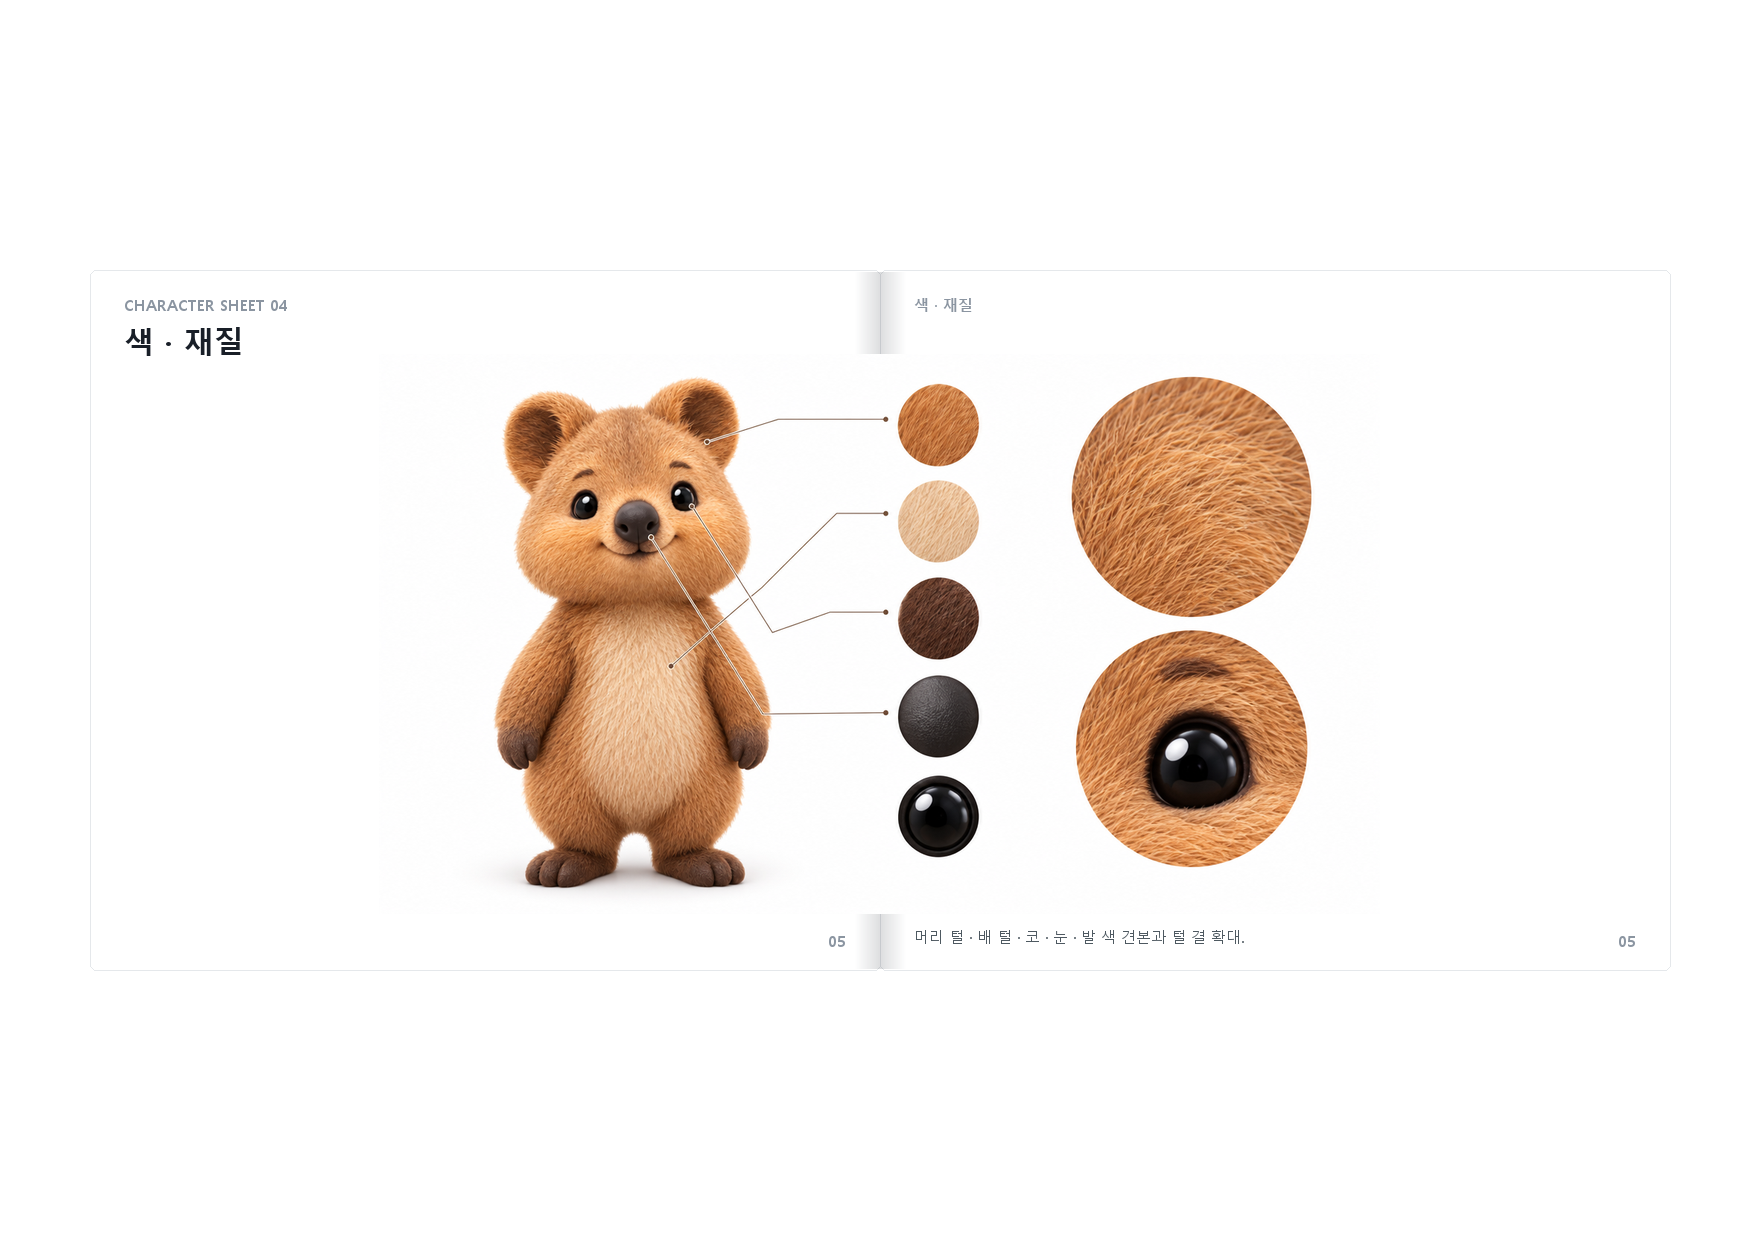
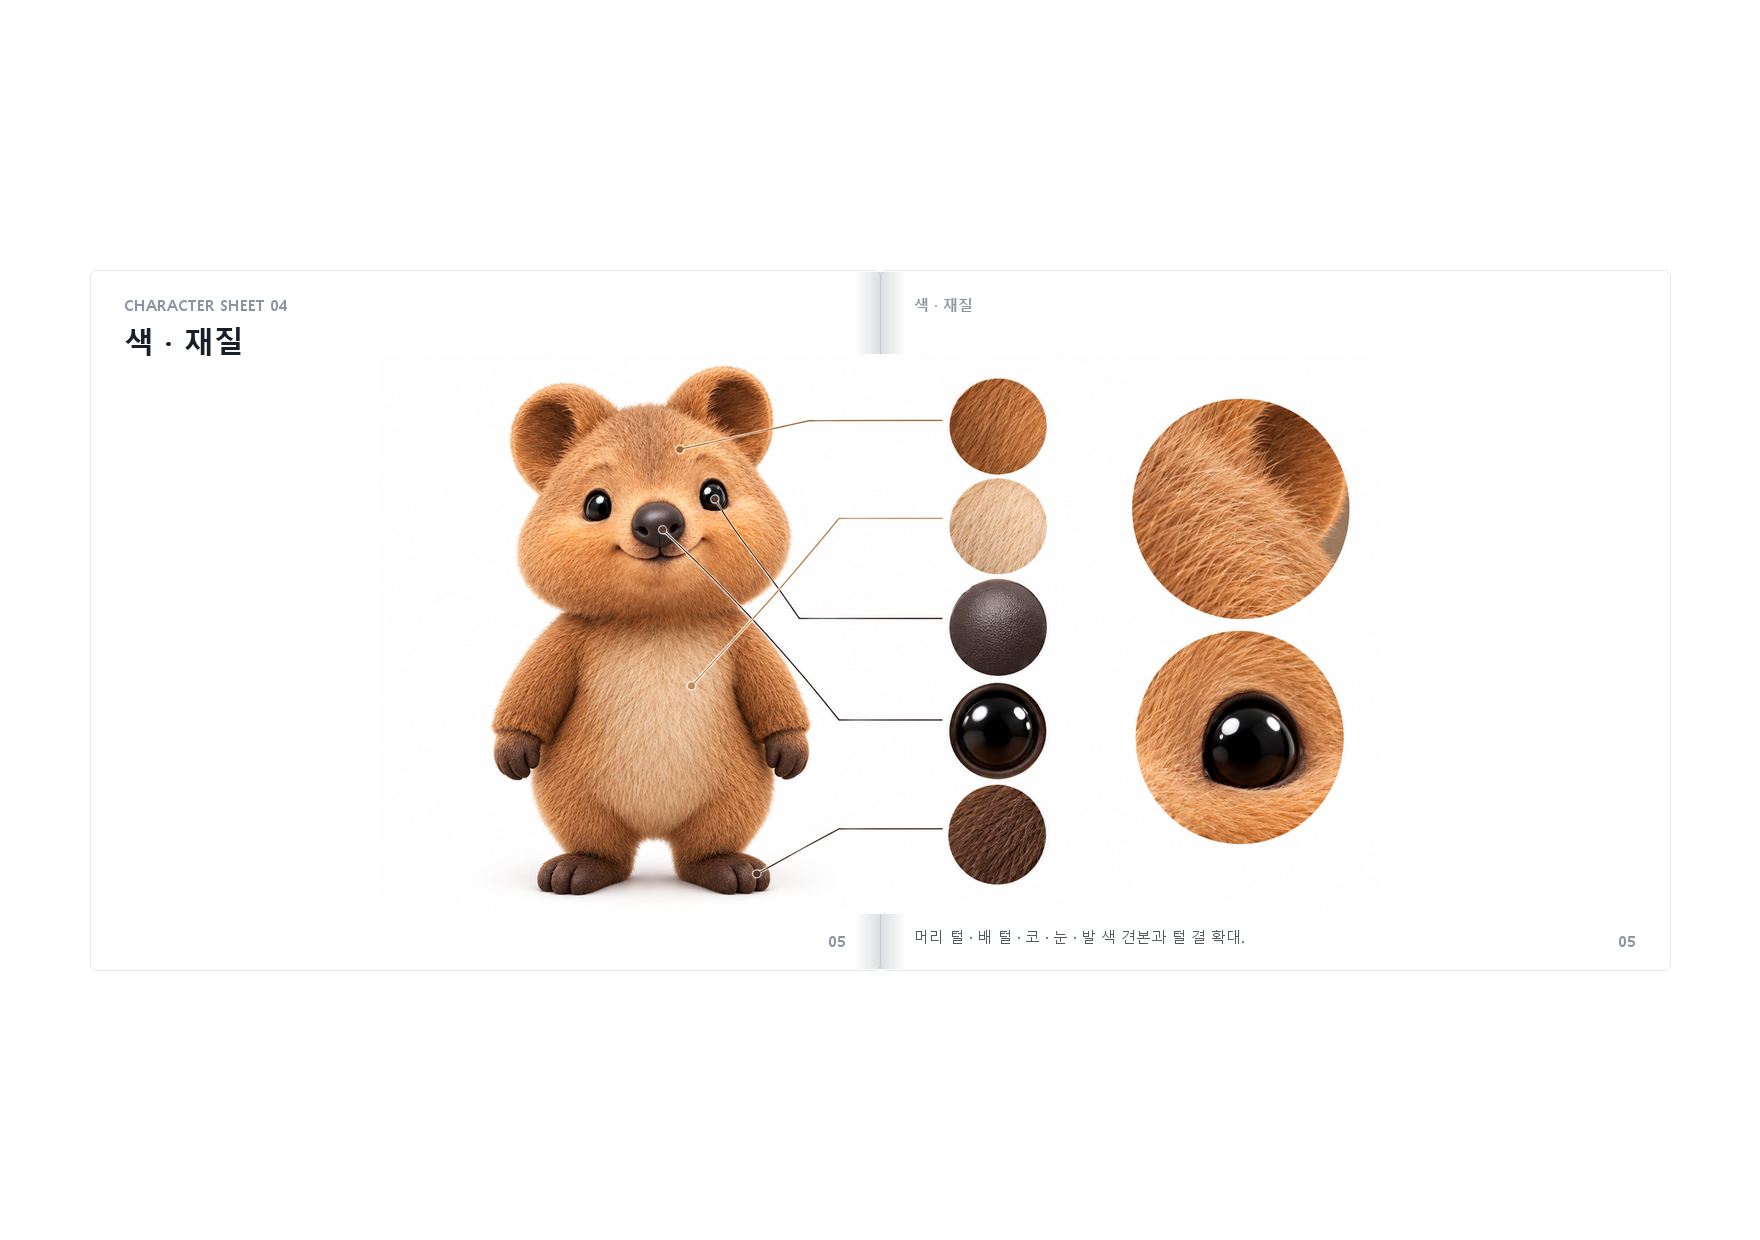
1차 시트·앵커·표지·마스터 프롬프트로 되돌림, 눈썹 버전은 보관

Changed region(s): [[0.2812, 0.2758, 0.7812, 0.7355]]

diff --git a/index.html b/index.html
@@ -595,8 +595,7 @@ button{font:inherit;letter-spacing:inherit}
     <div class="rgrid">
       <div class="rulecard ok"><h3><i>✓</i>항상 지킬 것</h3><ul>
         <li>앵커 이미지를 image_references로 첨부하고, 프롬프트 첫 문장은 마스터 프롬프트로 시작해요.</li>
-        <li>둥근 머리, 큰 검은 눈, 눈 위에 짧은 진갈색 눈썹 두 개, 작은 검은 코, 짧은 주둥이, 작고 둥근 귀. 비율을 바꾸는 말은 넣지 않아요.</li>
-        <li>팔은 어깨에서 이어진 한 덩어리로, 끝에 발이 붙어 있어요. 1차 시트처럼 발이 떨어져 나오면 다시 뽑아요.</li>
+        <li>둥근 머리, 큰 검은 눈, 작은 검은 코, 짧은 주둥이, 작고 둥근 귀. 비율을 바꾸는 말은 넣지 않아요.</li>
         <li>새 의상 세트는 키비주얼부터 뽑고, 포즈 4종은 그 키비주얼을 참조해 뽑아요.</li>
         <li>투명 배경 결과물은 PNG로 받아 여백을 잘라 세로 900px webp로 저장해요(극장 규격).</li>
         <li>모자·베레모·헤드폰은 허용. 낙엽은 "nothing on the head, no autumn leaf"로 막아요.</li>
@@ -1121,7 +1120,7 @@ function startIntro(){
 /* =====================================================================
    Below the book: prompt library, sample archive, copy + lightbox.
    ===================================================================== */
-const MASTER=`Exactly the same cute 3D quokka character as the reference image: keep the exact head shape and face proportions of the reference, the head is not wider than the body, no puffed cheeks, same eye size and spacing, two small short dark-brown eyebrow strokes above the eyes, same short snout, same small rounded ears, plush golden-brown fur with a lighter cream chest, small black nose, arms are continuous plush limbs ending in small dark-brown paws firmly attached (never a detached paw blob), nothing on the head, no autumn leaf.`;
+const MASTER=`Exactly the same cute 3D quokka character as the reference image: keep the exact head shape and face proportions of the reference, do not widen or flatten the face, same eye size and spacing, same short snout, same small rounded ears, plush golden-brown fur with a lighter cream chest, small black nose, dark brown paws, nothing on the head, no autumn leaf.`;
 const PROMPTS=[
  {t:'① 마스터 프롬프트 (모든 요청의 첫 문장)',meta:['공통 접두','앵커 첨부 필수'],body:MASTER,note:'이 문장을 먼저 쓰고 그 뒤에 의상·포즈·장면을 이어요. 얼굴 넓적하게 금지가 여기 들어 있어요.'},
  {t:'② 새 의상 키비주얼',meta:['2:3','medium','transparent','0.5cr'],body:MASTER+` New outfit, <스타일 한 줄, 예: Parisian autumn street style>: <상의>, <하의/겉옷>, <소품 1개>. Standing full body, friendly smile. Transparent background, no shadow, no text.`,note:'소품은 한 개만. 두 개 넘으면 손이 이상해져요. 결과는 PNG, 여백 트림, 세로 900px webp.'},
@@ -1129,7 +1128,7 @@ const PROMPTS=[
  {t:'④ 릴스·피드 장면 (배경 포함)',meta:['9:16 릴스 · 4:5 피드','high','1.5cr'],body:`Vertical 9:16 Instagram reel scene. `+MASTER+` The quokka <옷차림> <동작/상황>. Background: <장소, 시간대, 빛, 소품 2~3개>. Cinematic 3D animation render, soft lighting, vibrant but tasteful colors. No text, no letters, no watermark.`,note:'글자는 넣지 않고 편집 때 얹어요. 함께 나오는 캐릭터는 "a small friendly <동물> character with <특징>"처럼 한 문장으로.'},
  {t:'⑤ 한국 명절 장면',meta:['9:16','high','한국 요소 고정'],body:`Vertical 9:16 Korean Lunar New Year (Seollal) scene set in KOREA. `+MASTER+` The quokka wears a Korean hanbok: <저고리 색> jeogori with white dongjeong collar and <고름 색> goreum ribbon, <치마/바지>. Background: traditional Korean hanok with dark grey giwa roof tiles, hanji paper lattice doors, blue-and-red cheongsa-chorong Korean lanterns, <떡국 | 복주머니 | 윷 | 방패연 with taegeuk | 솟대 | 소나무 설경>. Strictly NO red Chinese paper lanterns, NO Chinese knots, NO Chinese-style upturned golden eaves, NO Chinese calligraphy, NO text, NO watermark.`,note:'첫 버전은 홍등·금박 처마가 섞여 중국풍이 됐어요. 금지 문장을 끝까지 붙여야 해요.'},
  {t:'⑥ 시퀀스(연속 장면) 프레임',meta:['9:16','high','참조 = 앞 장면 job_id + 앵커'],body:`Frame <N> of <total> of a <동작> animation sequence. Use the FIRST reference image as the exact scene: same room, same props, same camera angle, same framing, same light. Same characters in the same clothes: <의상 요약>. Keep the exact head shape and face proportions of the quokka from the second reference, do not widen or flatten the face, same eye size and spacing, same short snout, same small rounded ears, nothing on the head, no autumn leaf. ACTION: <이 프레임의 동작 한 문장>. Vertical 9:16, cozy 3D animation render. No text, no watermark.`,note:'앞 장면의 <em>job_id</em>를 첫 번째 참조로, 앵커를 두 번째 참조로 넣어요. 영상으로 이을 때 배경이 안 바뀌어요.'},
- {t:'⑦ 캐릭터 시트 · 턴어라운드',meta:['16:9','high','opaque'],body:`Character turnaround model sheet, four consistent full-body views in a row, front view, 3/4 view, side profile, and back view, evenly spaced, identical original character on all views, pure white seamless studio background, professional character sheet presentation. The character is the cute 3D quokka from the reference image with these exact rules: keep the exact head shape of the reference but the head must NOT be wider than the body, no puffed cheeks, compact face; large dark glossy eyes with soft catchlights, same eye size and spacing as the reference; TWO small short dark-brown eyebrow strokes above the eyes (clearly visible, thin, gently arched); small black nose, short snout, gentle closed-mouth smile; small rounded ears; plush golden-brown fur with a lighter cream chest and belly; chubby body; the arms are continuous plush limbs growing from the shoulders and ending in small dark-brown paws, each paw firmly attached to the end of its arm, never a detached paw blob, never a gap between arm and paw; dark brown feet; standing upright on two feet; no clothes, no accessories, nothing on the head, no autumn leaf. Stylized 3D character render, soft global illumination, three-point studio lighting, gentle rim light, high-end 3D animation studio quality, 4K. No text, no watermark, no logos, no frame borders, no props.`,note:'표정 시트는 첫 문장을 "Character expression sheet, one full-body reference standing on the left and a 3x2 grid of head-and-shoulders portraits…"로, 포즈 시트는 "Character pose sheet, the same character shown full-body in six poses side by side…"로 바꿔요.'},
+ {t:'⑦ 캐릭터 시트 · 턴어라운드',meta:['16:9','high','opaque'],body:`Character turnaround model sheet, four consistent full-body views in a row, front view, 3/4 view, side profile, and back view, evenly spaced, identical original character on all views, pure white seamless studio background, professional character sheet presentation. The character is exactly the cute 3D quokka from the reference image: round head, large dark glossy eyes with soft catchlights, small black nose, gentle closed-mouth smile, short rounded ears, plush golden-brown fur with a lighter cream chest and belly, chubby body with short arms, dark brown paws, standing upright on two feet, no clothes, no accessories, nothing on the head, no autumn leaf. Stylized 3D character render, soft global illumination, three-point studio lighting, gentle rim light, high-end 3D animation studio quality, 4K. No text, no watermark, no logos, no frame borders, no props.`,note:'표정 시트는 첫 문장을 "Character expression sheet, one full-body reference standing on the left and a 3x2 grid of head-and-shoulders portraits…"로, 포즈 시트는 "Character pose sheet, the same character shown full-body in six poses side by side…"로 바꿔요.'},
  {t:'⑧ 힉스필드 MCP 호출 예시',meta:['generate_image_batch','JSON'],body:`{
   "model": "gpt_image_2_5",
   "quality": "medium",            // 장면·시트는 "high"
@@ -1157,7 +1156,7 @@ function renderGallery(){
     theater.push({file:k.file,name:k.name+' · 기본',group:g});
     for(const p of (k.poses||[]))theater.push({file:p.file,name:k.name+' · '+p.name,group:g});
   }
-  const all=[...SHEETS,...DATA.paris,...NEWYEAR,...(DATA.sebae||[]),...(DATA.newyear_v1||[]),...(DATA.sheets_v1||[]),...theater,...(DATA.common||[]),...(DATA.info||[])];
+  const all=[...SHEETS,...DATA.paris,...NEWYEAR,...(DATA.sebae||[]),...(DATA.newyear_v1||[]),...(DATA.sheets_v2||[]),...theater,...(DATA.common||[]),...(DATA.info||[])];
   const groups=['전체',...new Set(all.map(x=>x.group))];
   $('#chips').innerHTML=groups.map(g=>`<button class="chip ${g===filter?'on':''}" data-g="${g}">${g}</button>`).join('');
   const list=filter==='전체'?all:all.filter(x=>x.group===filter);

diff --git a/tools/plates.py b/tools/plates.py
@@ -103,7 +103,7 @@ for k, v in rows:
     d.text((x, y), k, font=f(16, True), fill=MUTED); d.text((x + 120, y), v, font=f(17), fill=INK); y += 36
     d.line((x, y - 6, BX1 - 48, y - 6), fill=LINE)
 y += 14; px = x
-for t, fg, bg in (("눈썹 있음", GREEN, GREENBG), ("팔·발 연결", GREEN, GREENBG), ("얼굴 폭 고정", RED, REDBG), ("눈 간격 고정", GREEN, GREENBG), ("골든 브라운", GREEN, GREENBG)):
+for t, fg, bg in (("낙엽 없음", RED, REDBG), ("얼굴 폭 고정", RED, REDBG), ("눈 간격 고정", GREEN, GREENBG), ("골든 브라운", GREEN, GREENBG)):
     px = pill(d, px, y, t, fg, bg, f(15, True))
 save(im, 1, "cover")
 
